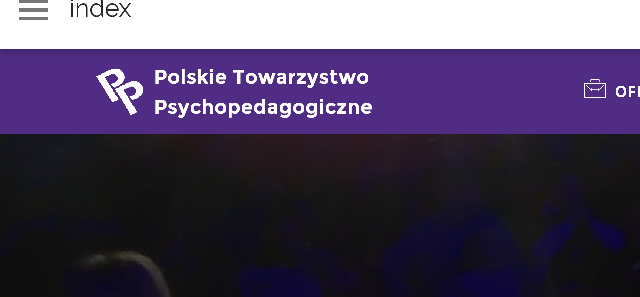
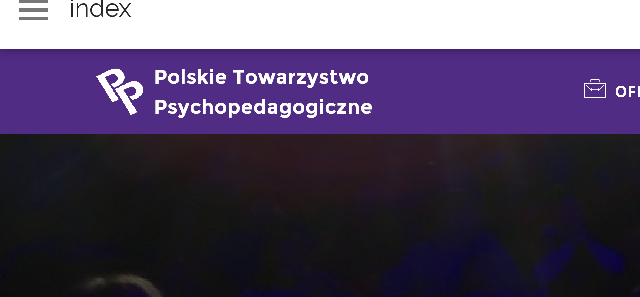
t

diff --git a/index.html b/index.html
@@ -20,9 +20,6 @@
   <link rel="stylesheet" href="assets/animate.css/animate.min.css">
   <link rel="stylesheet" href="assets/socicon/css/styles.css">
   <link rel="stylesheet" href="assets/dropdown/css/style.css">
-  <link rel="stylesheet" href="https://netdna.bootstrapcdn.com/font-awesome/4.0.3/css/font-awesome.css">
-  <link rel="stylesheet" href="assets/social-feed-plugin/jquery.socialfeed.css">
-  <link rel="stylesheet" href="assets/social-feed-plugin/style.css">
   <link rel="stylesheet" href="assets/theme/css/style.css">
   <link rel="stylesheet" href="assets/mobirise-gallery/style.css">
   <link rel="stylesheet" href="assets/mobirise/css/mbr-additional.css" type="text/css">
@@ -31,21 +28,6 @@
   
 </head>
 <body>
-
-<!-- Google Analytics -->
-<script>
-  (function(i,s,o,g,r,a,m){i['GoogleAnalyticsObject']=r;i[r]=i[r]||function(){
-  (i[r].q=i[r].q||[]).push(arguments)},i[r].l=1*new Date();a=s.createElement(o),
-  m=s.getElementsByTagName(o)[0];a.async=1;a.src=g;m.parentNode.insertBefore(a,m)
-  })(window,document,'script','https://www.google-analytics.com/analytics.js','ga');
-
-  ga('create', 'UA-50260950-4', 'auto');
-  ga('send', 'pageview');
-
-</script>
-<!-- /Google Analytics -->
-
-
 <section id="menu-0">
 
     <nav class="navbar navbar-dropdown bg-color transparent navbar-fixed-top">
@@ -56,7 +38,7 @@
 
                     <div class="navbar-brand">
                         <a href="https://www.psychopedagog.eu" target="_blank" class="navbar-logo"><img src="assets/images/logodostron-130x128.png" alt="Mobirise"></a>
-                        <a class="navbar-caption" href="https://mobirise.com">Polskie Towarzystwo <br>Psychopedagogiczne</a>
+                        <a class="navbar-caption" href="https://www.psychopedagog.eu">Polskie Towarzystwo <br>Psychopedagogiczne</a>
                     </div>
 
                 </div>
@@ -79,7 +61,7 @@
 
 </section>
 
-<section class="engine"><a rel="external" href="https://mobirise.com">Mobirise Website Generator</a></section><section class="mbr-section mbr-section-hero mbr-section-full mbr-parallax-background mbr-section-with-arrow mbr-after-navbar" id="header5-l" style="background-image: url(assets/images/pic05-2000x1500.jpg);">
+<section class="engine"><a rel="external" href="https://mobirise.com">https://mobirise.com/</a></section><section class="mbr-section mbr-section-hero mbr-section-full mbr-parallax-background mbr-section-with-arrow mbr-after-navbar" id="header5-l" style="background-image: url(assets/images/pic05-2000x1500.jpg);">
 
     <div class="mbr-overlay" style="opacity: 0.7; background-color: rgb(0, 0, 0);"></div>
 
@@ -355,7 +337,7 @@
 
 </section>
 
-<section class="mbr-info mbr-info-extra mbr-section mbr-section-md-padding mbr-parallax-background" id="msg-box1-1t" style="background-image: url(assets/images/mbr-1-2000x1330-2.jpg); padding-top: 120px; padding-bottom: 120px;">
+<section class="mbr-info mbr-info-extra mbr-section mbr-section-md-padding mbr-parallax-background" id="msg-box1-1t" style="background-image: url(assets/images/mbr-1-2000x1330-2000x1330.jpg); padding-top: 120px; padding-bottom: 120px;">
 
     <div class="mbr-overlay" style="opacity: 0.8; background-color: rgb(34, 34, 34);">
     </div>
@@ -373,7 +355,7 @@
                 </div>
 
                 <div class="mbr-table-cell col-md-4">
-                    <div class="text-xs-center"><a class="btn btn-primary" href="siatka/specjalisci.html"><span class="mbri-users mbr-iconfont mbr-iconfont-btn"></span>SIATKA SPECJALISTÓW</a></div>
+                    <div class="text-xs-center"><a class="btn btn-primary" href="http://www.psychopedagog.eu/siatka/specjalisci.html"><span class="mbri-users mbr-iconfont mbr-iconfont-btn"></span>SIATKA SPECJALISTÓW</a></div>
                 </div>
             </div>
 
@@ -382,14 +364,28 @@
     </div>
 </section>
 
-<section class="mbr-section mbr-section-md-padding" id="social-buttons4-18" style="background-color: rgb(0, 0, 0); padding-top: 90px; padding-bottom: 90px;">
+<section class="mbr-info mbr-info-extra mbr-section mbr-section-md-padding" id="msg-box1-1u" style="background-color: rgb(0, 0, 0); padding-top: 120px; padding-bottom: 120px;">
+
     
     <div class="container">
         <div class="row">
-            <div class="col-md-8 col-md-offset-2 text-xs-center">
-                <h3 class="mbr-section-title display-2">ŚLEDŹ MNIE RÓWNIEŻ NA ...</h3>
-                <div><a class="btn btn-social" title="Twitter" target="_blank" href="https://twitter.com/dafudo"><i class="socicon socicon-twitter"></i></a> <a class="btn btn-social" title="Facebook" target="_blank" href="https://www.facebook.com/dafudo"><i class="socicon socicon-facebook"></i></a> <a class="btn btn-social" title="Google+" target="_blank" href="https://www.google.pl/?gws_rd=ssl#q=dawid+karol+ko%C5%82odziej+boles%C5%82awiec&amp;*"><i class="socicon socicon-googleplus"></i></a> <a class="btn btn-social" title="YouTube" target="_blank" href="https://www.youtube.com/c/PsychopedagogeuTV"><i class="socicon socicon-youtube"></i></a> <a class="btn btn-social" title="Instagram" target="_blank" href="https://instagram.com/dafudo/"><i class="socicon socicon-instagram"></i></a>   <a class="btn btn-social" title="LinkedIn" target="_blank" href="https://www.linkedin.com/in/dafudo"><i class="socicon socicon-linkedin"></i></a>   </div>
+
+
+            
+
+
+            <div class="mbr-table-md-up">
+                <div class="mbr-table-cell mbr-right-padding-md-up col-md-8 text-xs-center text-md-left">
+                    <h2 class="mbr-info-subtitle mbr-section-subtitle">Zobacz biblioteczkę z publikacjami. Znajdziesz tam ciekawe teksty, które mogą Tobie pomóc, czegoś nauczyć. Zobacz co piszą nasi specjaliści!</h2>
+                    <h3 class="mbr-info-title mbr-section-title display-2">NASZE PUBLIKACJE PTPP</h3>
+                </div>
+
+                <div class="mbr-table-cell col-md-4">
+                    <div class="text-xs-center"><a class="btn btn-primary" href="http://www.psychopedagog.eu/biblioteka/publikacje.html"><span class="mbri-bookmark mbr-iconfont mbr-iconfont-btn"></span>POCZYTAJ</a></div>
+                </div>
             </div>
+
+
         </div>
     </div>
 </section>
@@ -410,6 +406,18 @@
 
 </section>
 
+<section class="mbr-section mbr-section-md-padding" id="social-buttons4-18" style="background-color: rgb(0, 0, 0); padding-top: 90px; padding-bottom: 90px;">
+    
+    <div class="container">
+        <div class="row">
+            <div class="col-md-8 col-md-offset-2 text-xs-center">
+                <h3 class="mbr-section-title display-2">ŚLEDŹ MNIE RÓWNIEŻ NA ...</h3>
+                <div><a class="btn btn-social" title="Twitter" target="_blank" href="https://twitter.com/dafudo"><i class="socicon socicon-twitter"></i></a> <a class="btn btn-social" title="Facebook" target="_blank" href="https://www.facebook.com/dafudo"><i class="socicon socicon-facebook"></i></a> <a class="btn btn-social" title="Google+" target="_blank" href="https://www.google.pl/?gws_rd=ssl#q=dawid+karol+ko%C5%82odziej+boles%C5%82awiec&amp;*"><i class="socicon socicon-googleplus"></i></a> <a class="btn btn-social" title="YouTube" target="_blank" href="https://www.youtube.com/c/PsychopedagogeuTV"><i class="socicon socicon-youtube"></i></a> <a class="btn btn-social" title="Instagram" target="_blank" href="https://instagram.com/dafudo/"><i class="socicon socicon-instagram"></i></a>   <a class="btn btn-social" title="LinkedIn" target="_blank" href="https://www.linkedin.com/in/dafudo"><i class="socicon socicon-linkedin"></i></a>   </div>
+            </div>
+        </div>
+    </div>
+</section>
+
 <section class="mbr-section mbr-section__container article" id="header3-1s" style="background-color: rgb(255, 255, 255); padding-top: 20px; padding-bottom: 20px;">
     <div class="container">
         <div class="row">
@@ -418,13 +426,6 @@
                 <small class="mbr-section-subtitle">sprawdź co ciekawego u mnie na Twitterze</small>
             </div>
         </div>
-    </div>
-</section>
-
-<section class="mbr-social-feed loading" id="feed-1r" data-youtube="" data-facebook="" data-twitter="dafudo" data-google="" data-posts="2" style="background-color: rgb(255, 255, 255); padding-top: 0px; padding-bottom: 40px;">
-    
-    <img class="social-feed-container-loading" alt="" src="assets/images/loading.svg">
-    <div class="social-feed-container">
     </div>
 </section>
 
@@ -442,15 +443,15 @@
                     </div>
                     <ul class="list-group list-group-flush">
                         <li class="list-group-item">
-                            <span class="list-group-icon"><span class="etl-icon icon-phone mbr-iconfont-company-contacts3" style="color: rgb(255, 255, 255);"></span></span>
+                            <span class="list-group-icon"><span class="mbri-mobile2 mbr-iconfont-company-contacts3" style="color: rgb(255, 255, 255);"></span></span>
                             <span class="list-group-text">(+48) 733 379 538</span>
                         </li>
                         <li class="list-group-item">
-                            <span class="list-group-icon"><span class="etl-icon icon-map-pin mbr-iconfont-company-contacts3" style="color: rgb(255, 255, 255);"></span></span>
+                            <span class="list-group-icon"><span class="mbri-home mbr-iconfont-company-contacts3" style="color: rgb(255, 255, 255);"></span></span>
                             <span class="list-group-text">59-700 Bolesławiec, ul. Teatralna 2/5</span>
                         </li>
                         <li class="list-group-item active">
-                            <span class="list-group-icon"><span class="etl-icon icon-envelope mbr-iconfont-company-contacts3" style="color: rgb(255, 255, 255);"></span></span>
+                            <span class="list-group-icon"><span class="mbri-letter mbr-iconfont-company-contacts3" style="color: rgb(255, 255, 255);"></span></span>
                             <span class="list-group-text">ptpp@psychopedagog.eu</span>
                         </li>
                     </ul>
@@ -473,7 +474,7 @@
 
                 <form action="https://mobirise.com/" method="post" data-form-title="MESSAGE">
 
[2 lines of base64/hex data omitted]
 
                     
 
@@ -509,12 +510,6 @@
   <script src="assets/bootstrap-carousel-swipe/bootstrap-carousel-swipe.js"></script>
   <script src="assets/dropdown/js/script.min.js"></script>
   <script src="assets/touch-swipe/jquery.touch-swipe.min.js"></script>
-  <script src="assets/social-feed-plugin/codebird.min.js"></script>
-  <script src="assets/social-feed-plugin/moment.js"></script>
-  <script src="assets/social-feed-plugin/en-gb.js"></script>
-  <script src="assets/social-feed-plugin/doT.js"></script>
-  <script src="assets/social-feed-plugin/jquery.socialfeed.js"></script>
-  <script src="assets/social-feed-plugin/main.js"></script>
   <script src="assets/theme/js/script.js"></script>
   <script src="assets/mobirise-gallery/player.min.js"></script>
   <script src="assets/mobirise-gallery/script.js"></script>

diff --git a/assets/mobirise/css/mbr-additional.css b/assets/mobirise/css/mbr-additional.css
@@ -477,12 +477,18 @@ h6,
 #msg-box1-1t H3 {
   color: #ffffff;
 }
-#social-buttons4-18 .mbr-section-title,
-#social-buttons4-18 .btn-social {
-  color: #fff;
+#msg-box1-1u H3 {
+  color: #ffffff;
+}
+#msg-box1-1u H2 {
+  color: #cccccc;
 }
 #msg-box8-1p .mbr-section-title,
 #msg-box8-1p p {
+  color: #fff;
+}
+#social-buttons4-18 .mbr-section-title,
+#social-buttons4-18 .btn-social {
   color: #fff;
 }
 #header3-1s .mbr-section-title,
